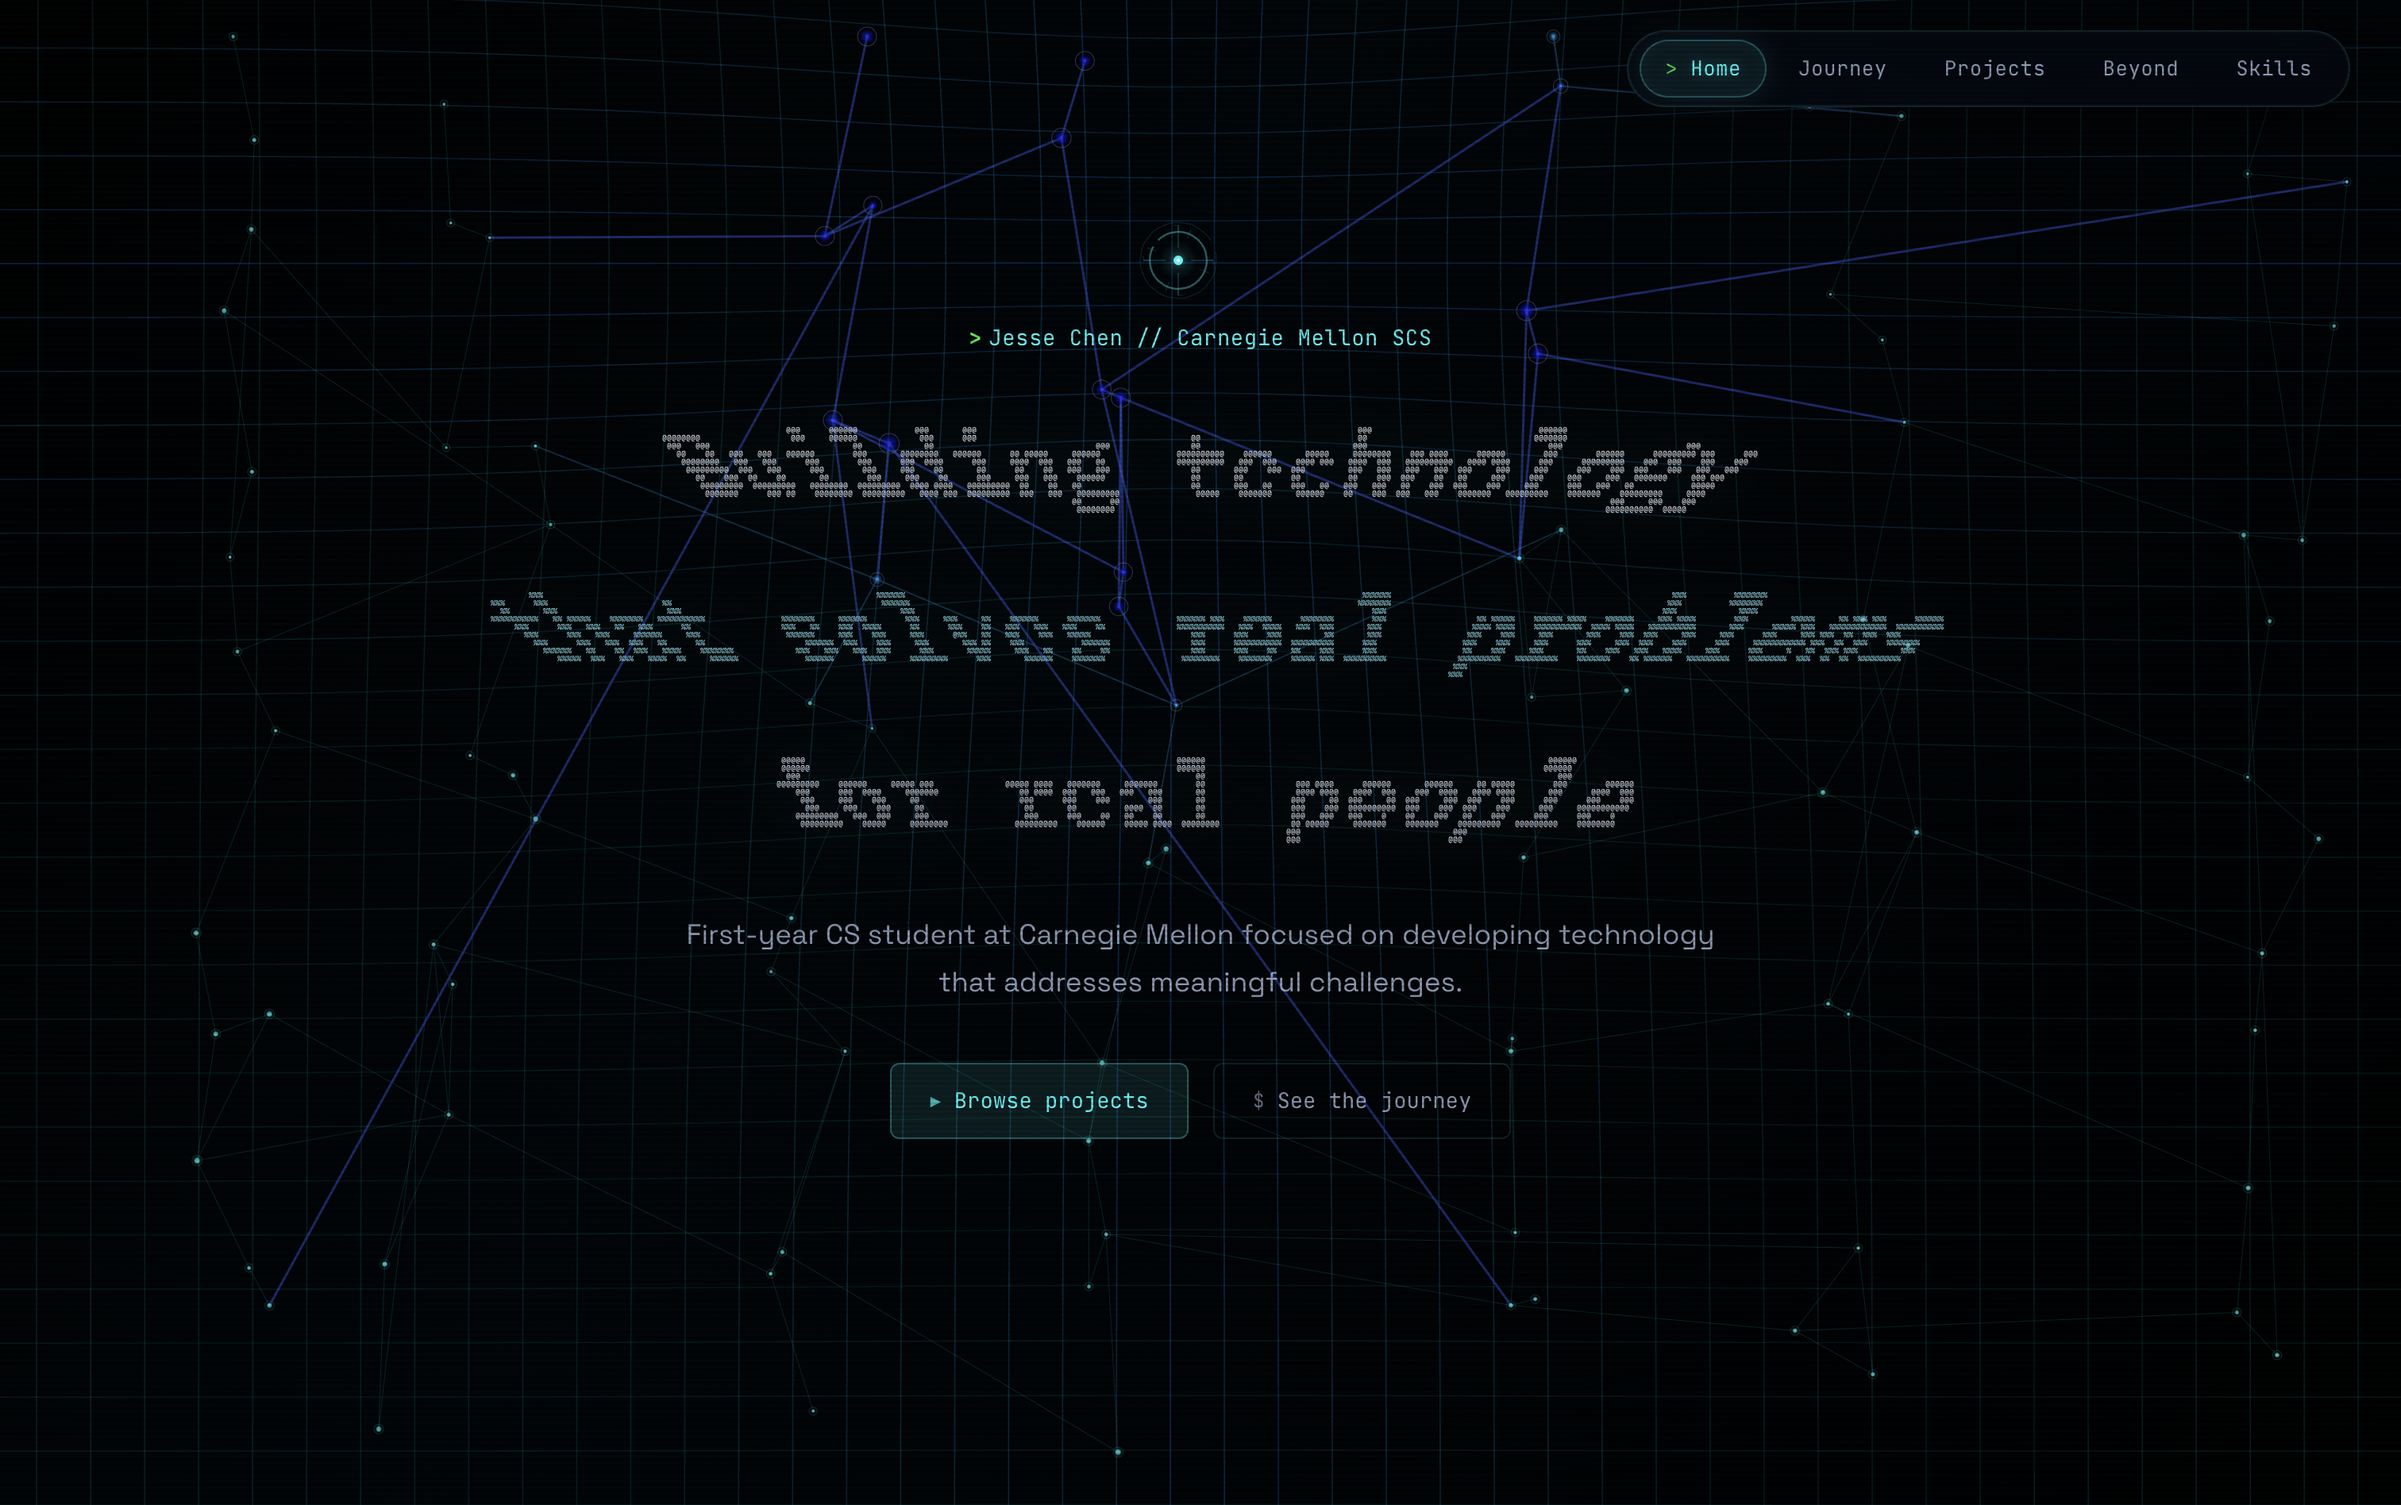
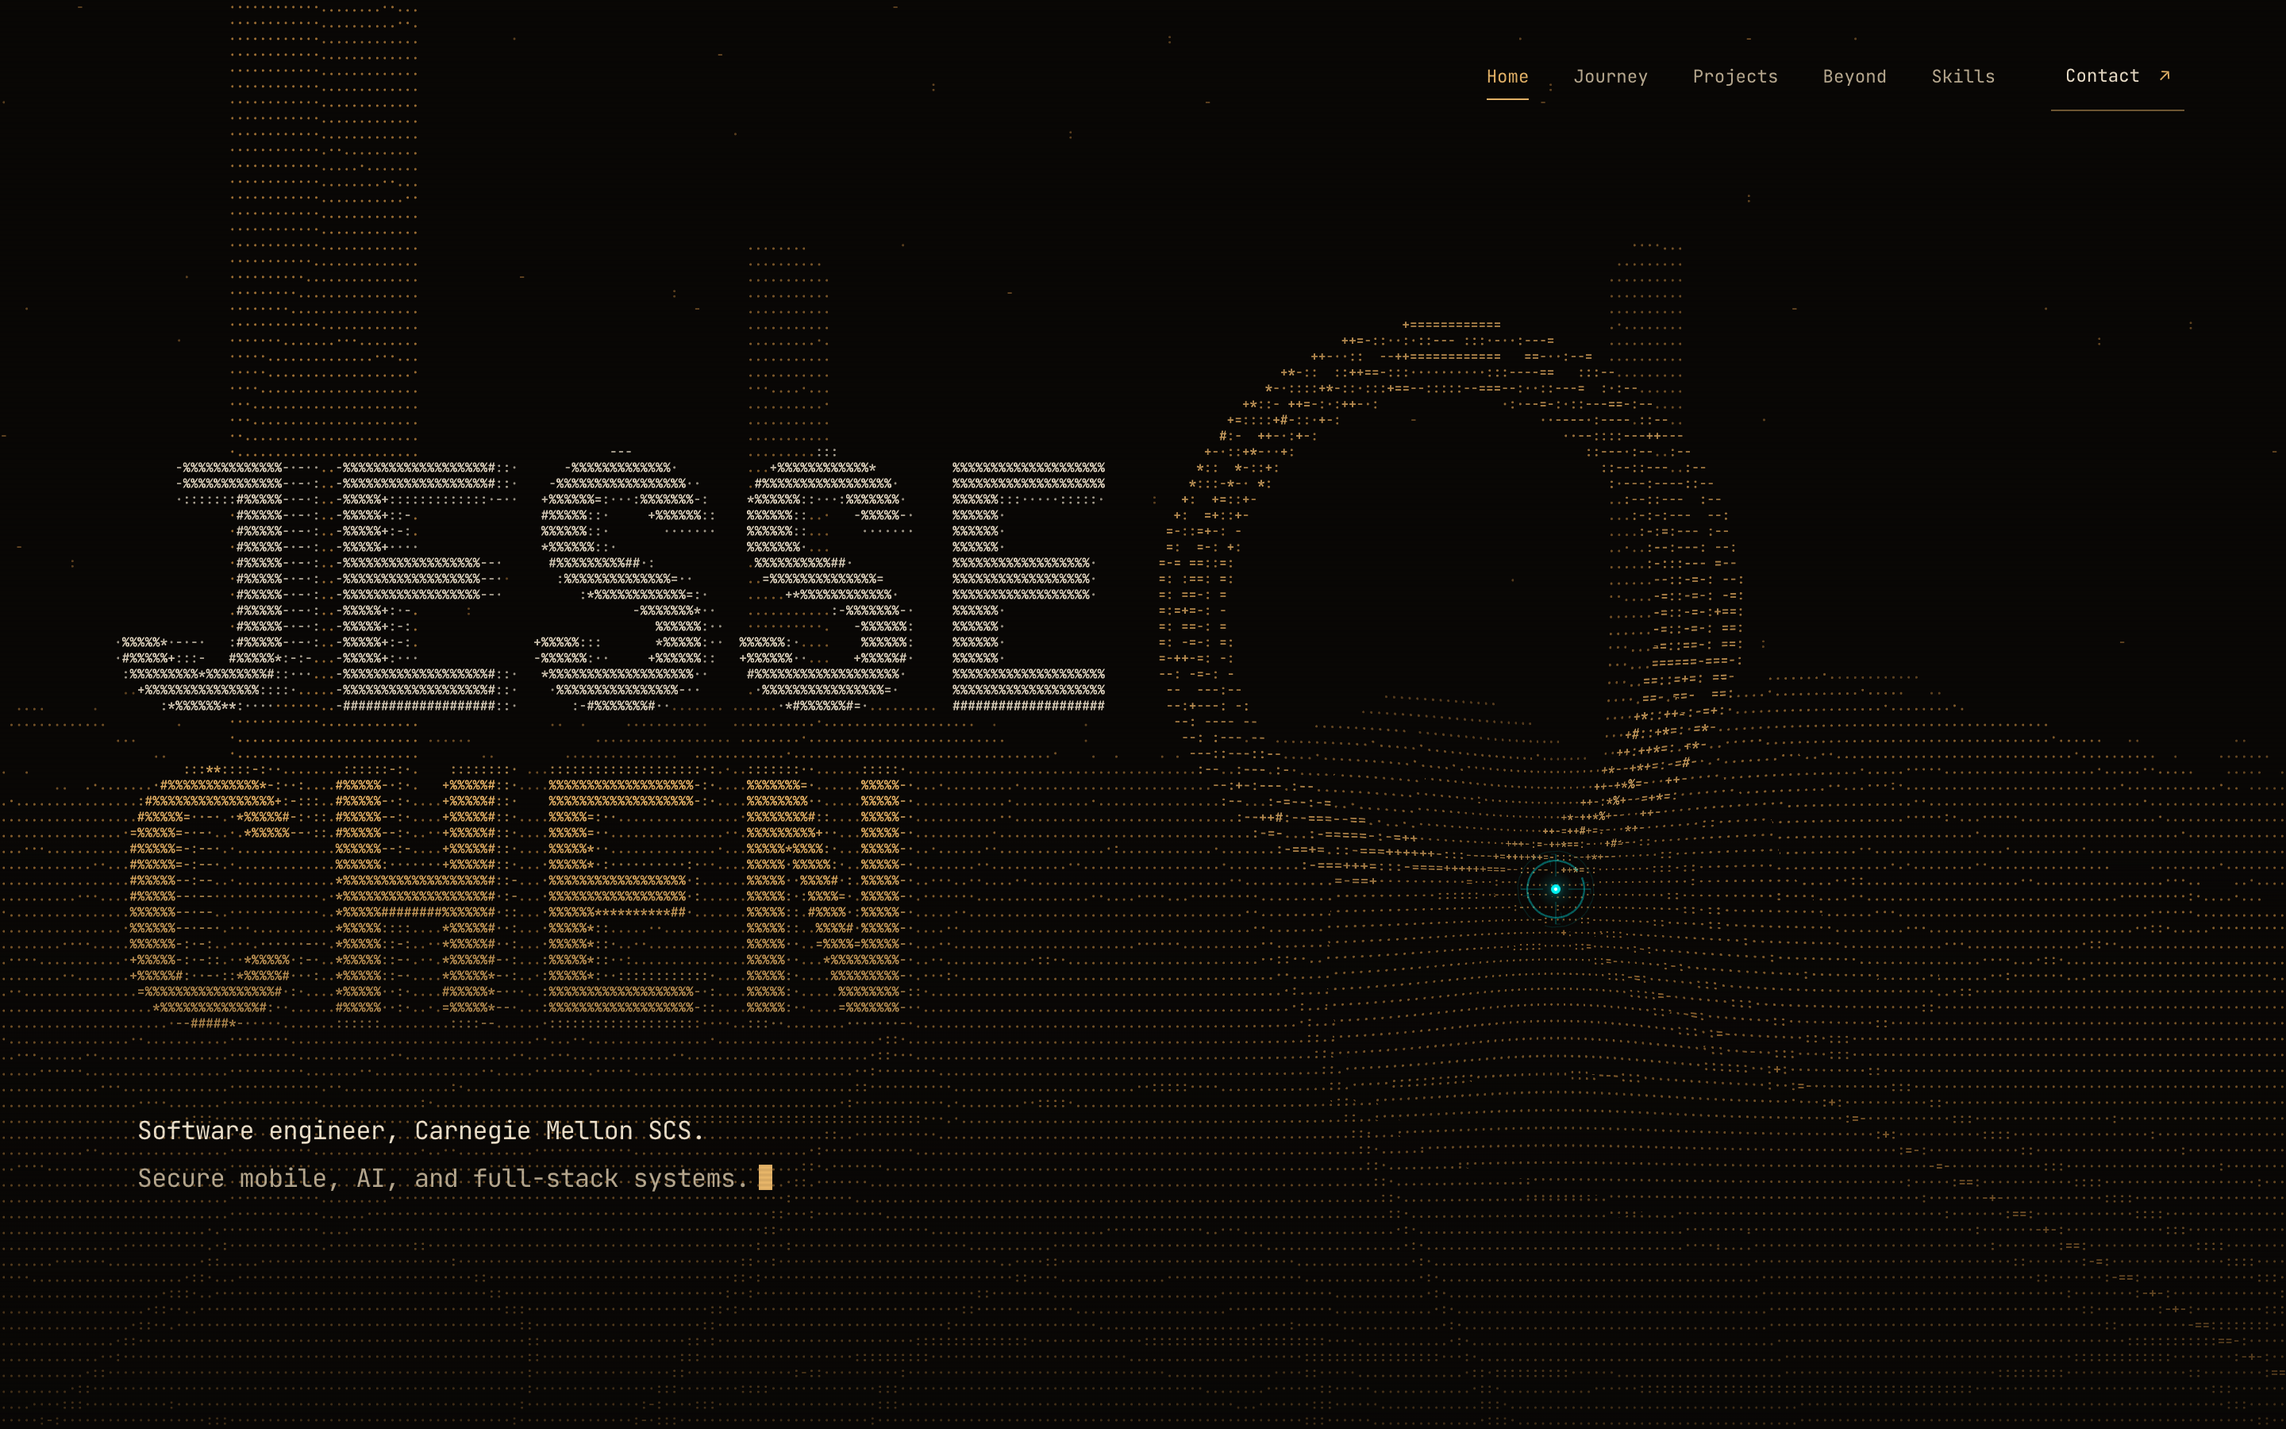
docs: refresh README copy and screenshots
New captures of the ASCII hero, journey, projects, toolkit terminal, and
constellation. Captions and Under the Hood describe what ships now, and
the experience and selected work tables match the site's content.

diff --git a/README.md b/README.md
@@ -26,11 +26,11 @@ Software Engineer · Computer Science @ Carnegie Mellon University (SCS) · Mach
 
 <table width="100%">
   <tr>
-    <td width="50%" valign="top"><img src="screenshots/journey.png" alt="Journey timeline"/><br/><div align="center"><strong>The journey</strong><br/><sub>animated experience timeline</sub></div></td>
-    <td width="50%" valign="top"><img src="screenshots/projects.png" alt="Selected work"/><br/><div align="center"><strong>Selected work</strong><br/><sub>interactive case-study cards</sub></div></td>
+    <td width="50%" valign="top"><img src="screenshots/journey.png" alt="Journey timeline"/><br/><div align="center"><strong>The journey</strong><br/><sub>a scroll-driven timeline of roles</sub></div></td>
+    <td width="50%" valign="top"><img src="screenshots/projects.png" alt="Selected work"/><br/><div align="center"><strong>Selected work</strong><br/><sub>case studies with screenshot galleries</sub></div></td>
   </tr>
   <tr>
-    <td width="50%" valign="top"><img src="screenshots/toolkit.png" alt="Toolkit"/><br/><div align="center"><strong>The toolkit</strong><br/><sub>a GSAP card stack of tools</sub></div></td>
+    <td width="50%" valign="top"><img src="screenshots/toolkit.png" alt="Toolkit"/><br/><div align="center"><strong>The toolkit</strong><br/><sub>a working terminal: tree, ls, grep, tab completion</sub></div></td>
     <td width="50%" valign="top"><img src="screenshots/constellation.png" alt="Constellation"/><br/><div align="center"><strong>The constellation</strong><br/><sub>a shared, live star field</sub></div></td>
   </tr>
 </table>
@@ -58,39 +58,39 @@ A secret Three.js scene with procedurally generated terrain you can sculpt and e
     <th align="left" width="52%">What I Did</th>
   </tr>
   <tr>
-    <td valign="middle"><strong>Blue Shield of California</strong><br/><sub>Mobile SWE Intern · 2026 to Present</sub></td>
+    <td valign="middle"><strong>ScottyLabs AI Team</strong><br/><sub>AI Platform Engineer · Apr 2026 to Present</sub></td>
+    <td align="center" valign="middle"><img title="Python · FastAPI · React · TypeScript · PostgreSQL" alt="Python, FastAPI, React, TypeScript, PostgreSQL" height="28" src="https://skillicons.dev/icons?i=py,fastapi,react,ts,postgresql" />&nbsp;<img title="LangGraph" alt="LangGraph" height="28" width="28" src="https://cdn.simpleicons.org/langchain/00A67E" /></td>
+    <td valign="middle">Launched a campus AI platform that grounds every answer in live university data and streams first tokens at 1.5s p95, with injection-hardened cross-chat memory and MCP tool binding that cut prompt tokens 62%.</td>
+  </tr>
+  <tr>
+    <td valign="middle"><strong>Blue Shield of California</strong><br/><sub>Software Engineer Intern, Android · Summer 2026</sub></td>
     <td align="center" valign="middle"><img title="Android · Kotlin · Security" alt="Android, Kotlin, Security" height="28" src="https://skillicons.dev/icons?i=androidstudio,kotlin" /></td>
     <td valign="middle">Built a differential security audit for 220+ endpoints and shipped navigation and billing redesigns for a 500K+ user Android app.</td>
   </tr>
   <tr>
-    <td valign="middle"><strong>ScottyLabs AI · CMUGPT</strong><br/><sub>AI Platform Engineer · 2026 to Present</sub></td>
-    <td align="center" valign="middle"><img title="Python · FastAPI · React · TypeScript" alt="Python, FastAPI, React, TypeScript" height="28" src="https://skillicons.dev/icons?i=py,fastapi,react,ts" />&nbsp;<img title="LangGraph" alt="LangGraph" height="28" width="28" src="https://cdn.simpleicons.org/langchain/00A67E" />&nbsp;<img title="TanStack" alt="TanStack" height="28" width="28" src="https://cdn.simpleicons.org/reactquery/FF4154" /></td>
-    <td valign="middle">Built agent orchestration, authenticated streaming, CMU Maps route embeds, and prompt-injection protections for a campus AI platform.</td>
-  </tr>
-  <tr>
-    <td valign="middle"><strong>Sorcea Labs</strong><br/><sub>Mobile SWE Intern · Spring 2026</sub></td>
+    <td valign="middle"><strong>Sorcea Labs</strong><br/><sub>Software Engineer Intern · Jan 2026 to May 2026</sub></td>
     <td align="center" valign="middle"><img title="Flutter · Dart" alt="Flutter, Dart" height="28" src="https://skillicons.dev/icons?i=flutter,dart" /></td>
-    <td valign="middle">Shipped production app flows for 10k+ users and improved home-load latency by batching network calls.</td>
+    <td valign="middle">Overhauled the core flows of a 10K+ user Flutter app, built a perceptual color engine for skin-tone shade matching, and cut homepage load time about 75%.</td>
   </tr>
   <tr>
-    <td valign="middle"><strong>CMUMaps · ScottyLabs</strong><br/><sub>Data &amp; Software Engineer · 2025 to 2026</sub></td>
+    <td valign="middle"><strong>CMUMaps</strong><br/><sub>Data &amp; Software Engineer · Sep 2025 to Apr 2026</sub></td>
     <td align="center" valign="middle"><img title="Python · AWS" alt="Python, AWS" height="28" src="https://skillicons.dev/icons?i=py,aws" />&nbsp;<img title="OpenStreetMap" alt="OpenStreetMap" height="28" width="28" src="https://cdn.simpleicons.org/openstreetmap/7EBC6F" />&nbsp;<img title="ArcGIS" alt="ArcGIS" height="28" width="28" src="https://cdn.simpleicons.org/arcgis/2C7AC3" /></td>
-    <td valign="middle">Built geospatial ETL for all 74 CMU buildings, including OSM parsing, fuzzy matching, and interior map labels.</td>
+    <td valign="middle">Built the geospatial ETL pipeline behind CMU's campus navigation site, parsing 15K+ OpenStreetMap nodes and ArcGIS records into footprints, floors, and entrances for 74 buildings.</td>
   </tr>
   <tr>
-    <td valign="middle"><strong>Coding Minds Academy</strong><br/><sub>Programming Instructor · 2025 to 2026</sub></td>
+    <td valign="middle"><strong>Game Creation Society</strong><br/><sub>Core Developer · Fall 2025</sub></td>
+    <td align="center" valign="middle"><img title="Unreal Engine 5" alt="Unreal Engine 5" height="28" src="https://skillicons.dev/icons?i=unreal" /></td>
+    <td valign="middle">Built Unreal Engine 5 Blueprint systems for grappling, tethering, and local multiplayer combat, synchronizing physics, collision feedback, and elimination state in real time.</td>
+  </tr>
+  <tr>
+    <td valign="middle"><strong>Coding Minds Academy</strong><br/><sub>Instructor · Jun 2025 to Feb 2026</sub></td>
     <td align="center" valign="middle"><img title="Python · C++ · JavaScript" alt="Python, C++, JavaScript" height="28" src="https://skillicons.dev/icons?i=py,cpp,js" /></td>
-    <td valign="middle">Taught project-based CS, algorithms, debugging, and competitive programming through structured labs.</td>
+    <td valign="middle">Designed and taught project-based Python, C++, and JavaScript curriculum centered on algorithms and competitive problem solving.</td>
   </tr>
   <tr>
-    <td valign="middle"><strong>Levio</strong><br/><sub>Creator &amp; Developer · 2023 to 2024</sub></td>
-    <td align="center" valign="middle"><img title="Flutter · Dart · Supabase · PostgreSQL · GitHub Actions" alt="Flutter, Dart, Supabase, PostgreSQL, GitHub Actions" height="28" src="https://skillicons.dev/icons?i=flutter,dart,supabase,postgresql,githubactions" /></td>
-    <td valign="middle">Built an offline-first Parkinson's care platform with symptom logs, medication schedules, guided therapy, and snapshot sync.</td>
-  </tr>
-  <tr>
-    <td valign="middle"><strong>SoftCom Lab · Cal Poly Pomona</strong><br/><sub>Research Intern · 2023 to 2024</sub></td>
+    <td valign="middle"><strong>SoftCom Lab</strong><br/><sub>Machine Learning Research Intern · Jun 2023 to Aug 2024</sub></td>
     <td align="center" valign="middle"><img title="Python · OpenCV · NumPy" alt="Python, OpenCV, NumPy" height="28" src="https://skillicons.dev/icons?i=py,opencv,numpy" /></td>
-    <td valign="middle">Evaluated Parkinson's motor-symptom video analysis models and contributed to a peer-reviewed CCSIT publication.</td>
+    <td valign="middle">Developed a computer-vision model for Parkinson's exercise-form assessment (95.4% mean accuracy in video trials) and first-authored the peer-reviewed paper at CS &amp; IT-CSCP 2024.</td>
   </tr>
 </table>
 
@@ -105,24 +105,24 @@ A secret Three.js scene with procedurally generated terrain you can sculpt and e
     <th align="left" width="56%">What It Does</th>
   </tr>
   <tr>
-    <td valign="middle"><strong>Agoriai</strong></td>
-    <td align="center" valign="middle"><img title="React · TypeScript · D3 · PostgreSQL" alt="React, TypeScript, D3, PostgreSQL" height="28" src="https://skillicons.dev/icons?i=react,ts,d3,postgresql" /></td>
-    <td valign="middle">Anonymous student career network with school-email auth, private identity tiers, threaded discussions, voting, and a student-company graph.</td>
+    <td valign="middle"><strong>ParkiWell</strong></td>
+    <td align="center" valign="middle"><img title="Flutter · Dart · Python · Supabase · PostgreSQL" alt="Flutter, Dart, Python, Supabase, PostgreSQL" height="28" src="https://skillicons.dev/icons?i=flutter,dart,py,supabase,postgresql" /></td>
+    <td valign="middle">Offline-first Parkinson's care platform with a real-time computer-vision exercise coach (under 25 ms on-device) and crash-proof encrypted sync that survived 1M fault-injected writes with zero loss.</td>
   </tr>
   <tr>
-    <td valign="middle"><strong>Levio</strong></td>
-    <td align="center" valign="middle"><img title="Flutter · Dart · Supabase · PostgreSQL · GitHub Actions" alt="Flutter, Dart, Supabase, PostgreSQL, GitHub Actions" height="28" src="https://skillicons.dev/icons?i=flutter,dart,supabase,postgresql,githubactions" /></td>
-    <td valign="middle">Offline-first Parkinson's care app for symptom tracking, medication schedules, guided therapy, crisis screening, and signed mobile releases.</td>
+    <td valign="middle"><strong>Agoriai</strong></td>
+    <td align="center" valign="middle"><img title="React · TypeScript · D3 · PostgreSQL" alt="React, TypeScript, D3, PostgreSQL" height="28" src="https://skillicons.dev/icons?i=react,ts,d3,postgresql" /></td>
+    <td valign="middle">Anonymous student career network built in 36 hours at TartanHacks 2026: a 36-endpoint Bun/Elysia API, four identity tiers enforced on the server, and a D3 relationship graph.</td>
   </tr>
   <tr>
     <td valign="middle"><strong>Tarocchi</strong></td>
     <td align="center" valign="middle"><img title="React · Vite · TypeScript · Tailwind CSS · Framer Motion" alt="React, Vite, TypeScript, Tailwind CSS, Framer Motion" height="28" src="https://skillicons.dev/icons?i=react,vite,ts,tailwind,framer" /></td>
-    <td valign="middle">Interactive narrative web app with 24 branching paths, animated scene transitions, parallax, and synchronized audio.</td>
+    <td valign="middle">Interactive tarot narrative with five illustrated branches, Claude-interpreted card readings, and scene transitions, parallax, and audio driven by one route state.</td>
   </tr>
   <tr>
     <td valign="middle"><strong>MyCommunity</strong></td>
     <td align="center" valign="middle"><img title="Java · Android · Firebase" alt="Java, Android, Firebase" height="28" src="https://skillicons.dev/icons?i=java,androidstudio,firebase" /></td>
-    <td valign="middle">Native Android app for Boy Scouts troop discovery, real-time map markers, Google Sign-In, and a community news feed.</td>
+    <td valign="middle">Native Android app for Boy Scouts troop discovery, with live Firebase markers on a Google Map, Google Sign-In, and a cached community news feed.</td>
   </tr>
 </table>
 
@@ -152,7 +152,9 @@ A secret Three.js scene with procedurally generated terrain you can sculpt and e
   <img src="https://readme-typing-svg.demolab.com/?font=Space+Grotesk&weight=700&size=26&duration=1&pause=100000&color=E6EDF3&vCenter=true&repeat=false&width=320&height=44&lines=Under+the+Hood" alt="Under the Hood" />
 </h2>
 
-- **Interactive canvas background:** procedurally generated node network with pointer tracking and gyroscope tilt response
+- **Ray-marched ASCII hero:** a WebGL2 world of hills, a torus, and stars, evaluated at character resolution and drawn from a glyph atlas. The name is carved in as a signed-distance plate, the pointer tugs the glyph field, and a click bumps it the way the background grid answers a click.
+- **Background off the main thread:** the node network and grid render in a worker through OffscreenCanvas, with pointer tracking and gyroscope tilt response.
+- **Toolkit terminal:** a small pure shell (help, tree, ls, grep, whoami) with history and tab completion, drawn in the same amber form language.
 - **3D sketchbook world:** a Three.js / React Three Fiber procedural terrain scene with sculpting tools and a hand-drawn post-processing pass
 - **Visitor constellation:** a shared star field with read-only Firebase clients and rate-limited, ownership-checked server writes
 - **Performance-adaptive:** detects device capabilities and adjusts DPR, frame rate, and rendering complexity
